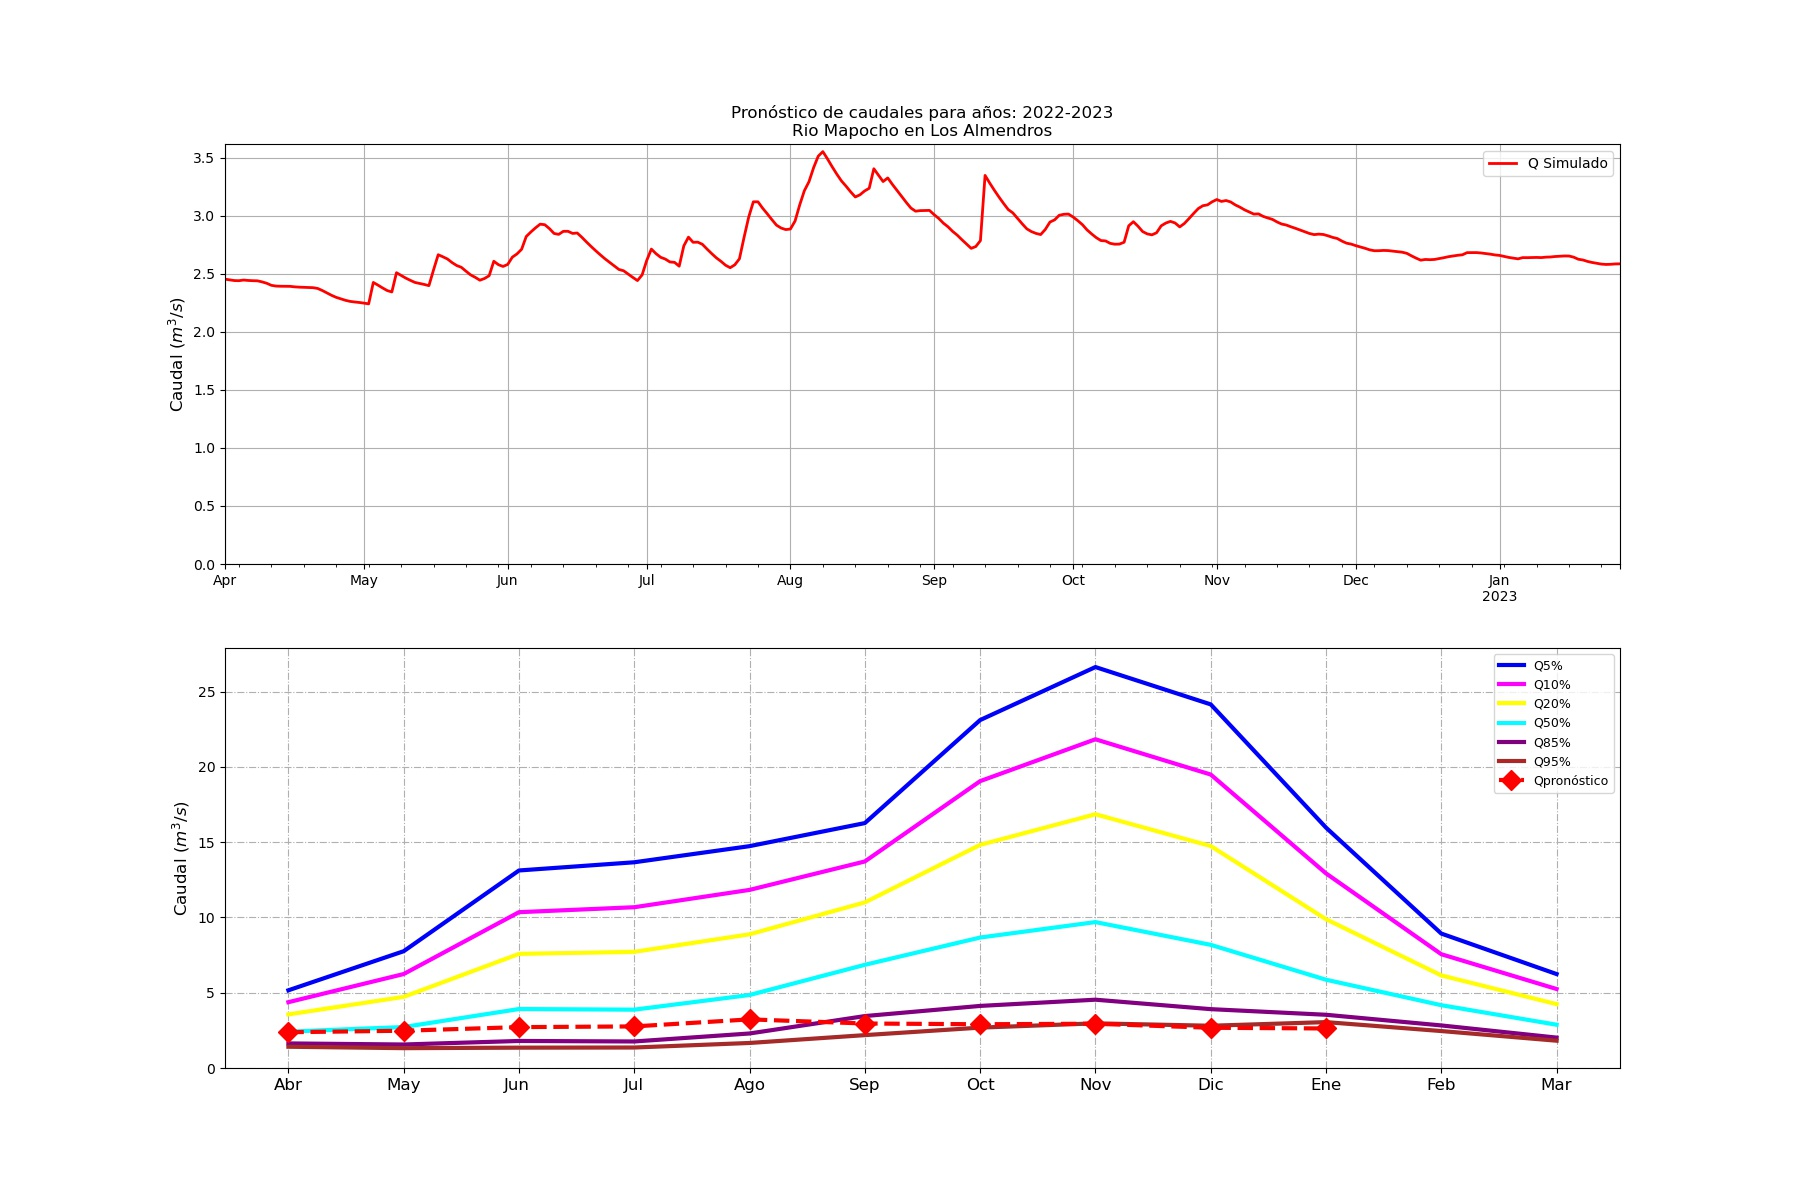
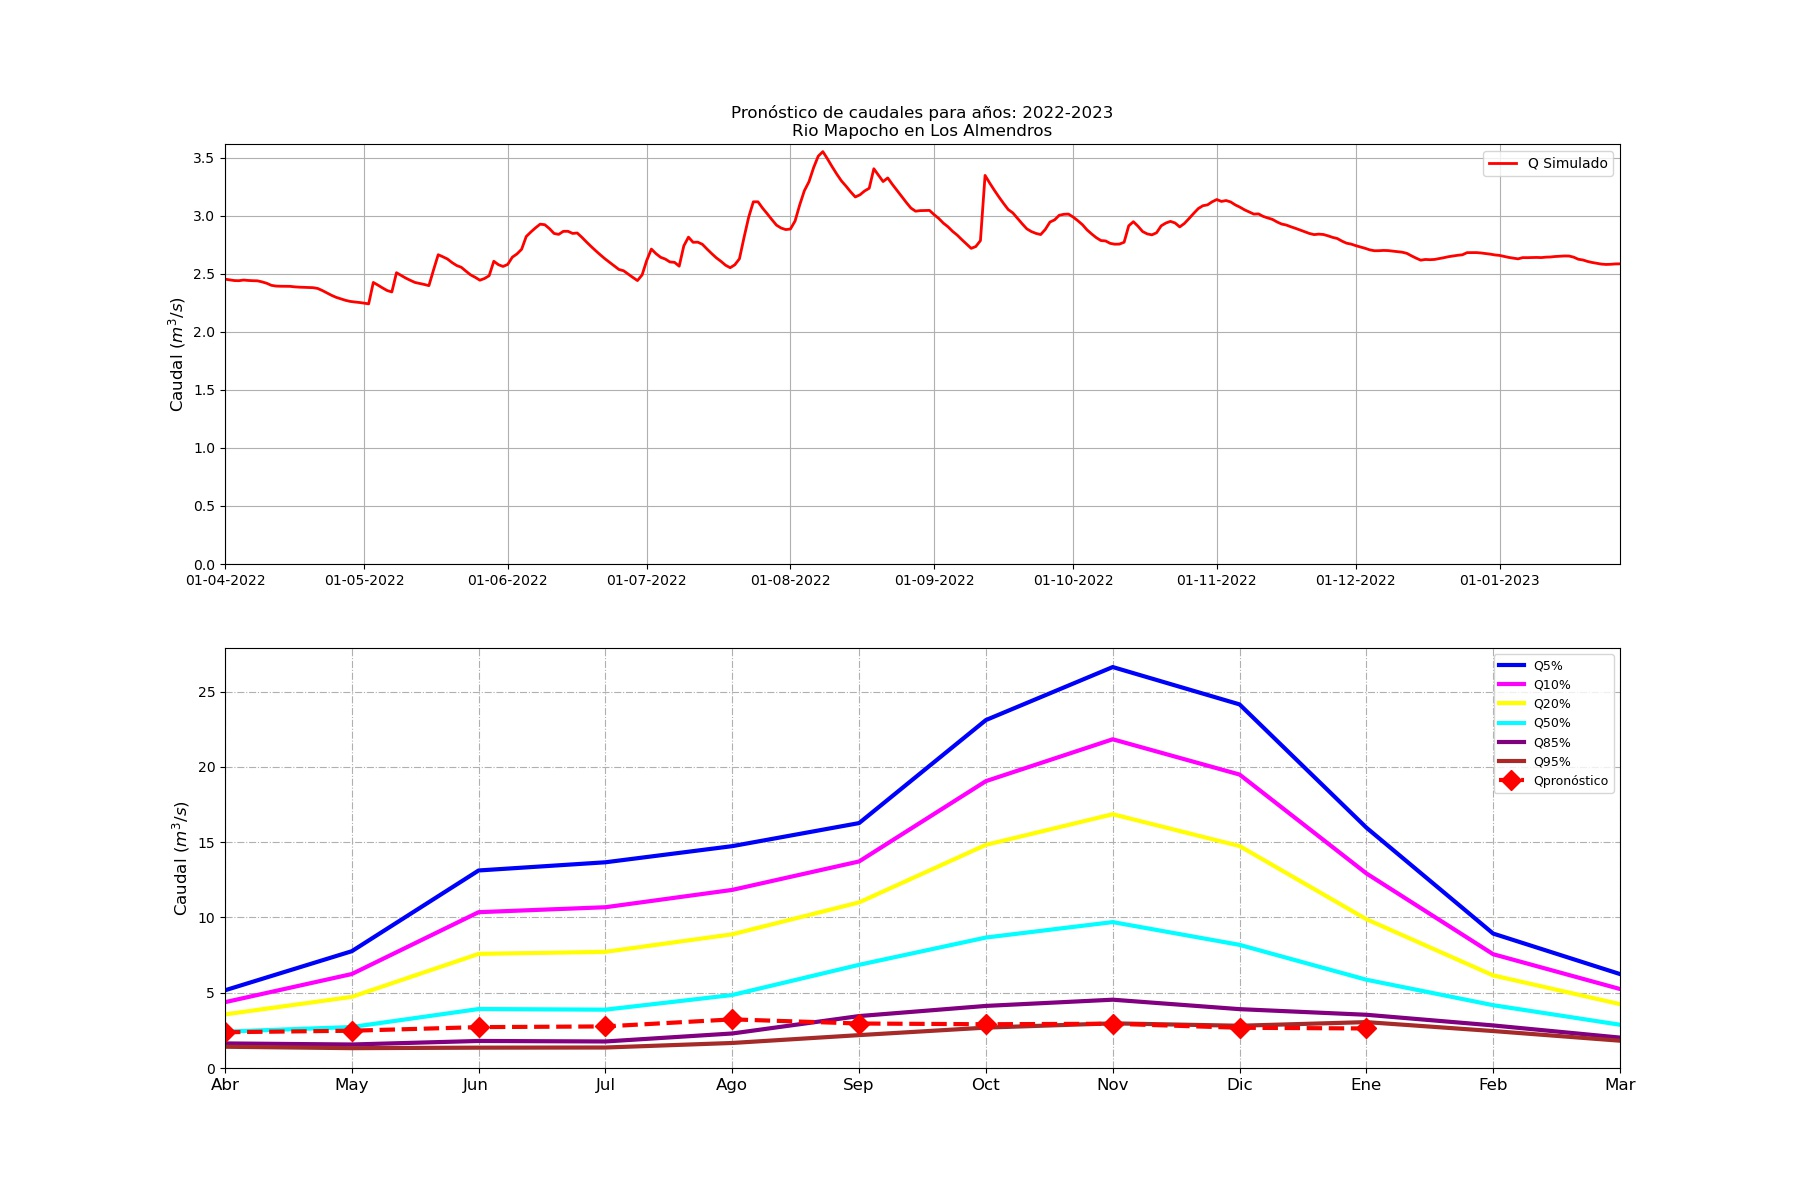
add: plots

diff --git a/interfaz.py b/interfaz.py
@@ -367,6 +367,7 @@ class Ui_MainWindow(object):
             ax = fig.add_subplot(2,1,1)
             ax.xaxis.set_major_formatter(mdates.DateFormatter('%d-%m-%Y'))
             ax.plot(Qfor.index, Qfor.values, color='red', linewidth = 2)
+            ax.autoscale(enable=True, axis='x', tight=True)
             
             
             ax.set_ylim(bottom = 0)
@@ -403,6 +404,7 @@ class Ui_MainWindow(object):
             _ = axis.set_xticklabels(['Abr', 'May', 'Jun ', 'Jul', 'Ago', 'Sep', 'Oct',
                          'Nov', 'Dic', 'Ene', 'Feb', 'Mar'], fontsize = 12)
             plt.show()
+            axis.autoscale(enable=True, axis='x', tight=True)
             path_caudal_simulado_fig = os.path.join(path_resultados,
                                             'Qsim_'+sufijo+'.jpg')
             plt.savefig(path_caudal_simulado_fig, format='jpg')
